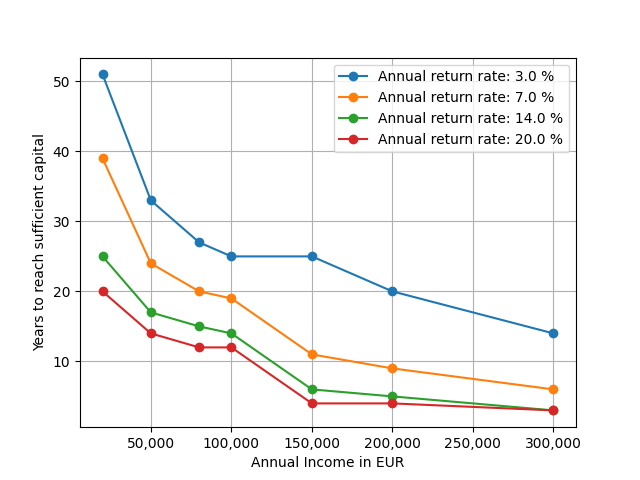
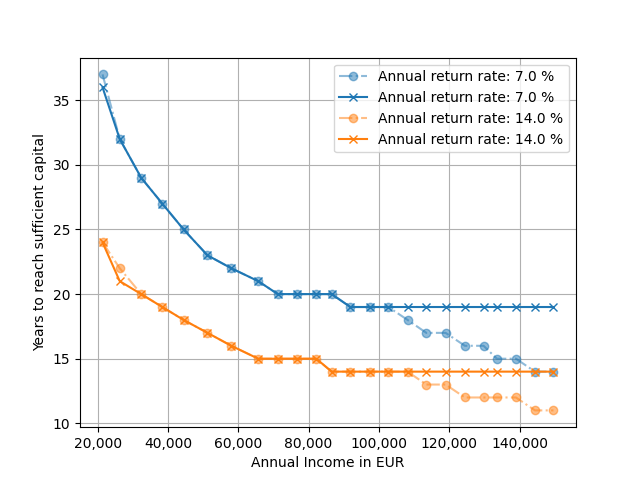
Added plotting of income distribution. Fixed a smaller bug in calculate_income_support (corrected percentage calculation for support_per_income_bracked)

diff --git a/tax_autonomy_estimations.py b/tax_autonomy_estimations.py
@@ -35,10 +35,49 @@ class IncomeDistribution:
                     [6754, 0.007699141],
                     [7000, 0.0165038],]
     
-    def check_sum_probability():
-        total_probability = sum([x[1] for x in IncomeDistribution.income_distribution_germany_monthly_net_2025])
+    income_distribution_germany_annual_pretax_2025 = [[3048.0, 0.018142335], 
+                                                      [6084.0, 0.0368473], 
+                                                      [8940.0, 0.05746718], 
+                                                      [11988.0, 0.074790248],
+                                                      [21408.6796875, 0.086605468],
+                                                      [26297.890020525545, 0.094857368],
+                                                      [32402.37806481606, 0.09815418],
+                                                      [38404.916015625, 0.095133748],
+                                                      [44456.68841170119, 0.083585036],
+                                                      [51254.11145067215, 0.06955878],
+                                                      [58019.106321155494, 0.055818774],
+                                                      [65692.49251496955, 0.043717303],
+                                                      [71238.10499621322, 0.033264238],
+                                                      [76630.28155900352, 0.025298588],
+                                                      [82197.8134571691, 0.019800612],
+                                                      [86562.43176269531, 0.015951041],
+                                                      [91882.03161621094, 0.012920738],
+                                                      [97374.62658691406, 0.009623927],
+                                                      [102694.22644042969, 0.007146382],
+                                                      [108165.19702148438, 0.005497977],
+                                                      [113484.796875, 0.004402329],
+                                                      [118977.39184570312, 0.003849571],
+                                                      [124448.36242675781, 0.00412595],
+                                                      [129767.96228027344, 0.005497977],
+                                                      [133547.9080920462, 0.006327115],
+                                                      [138977.90147373016, 0.007422762],
+                                                      [144386.51692871458, 0.007699141],
+                                                      [149645.4868968022, 0.0165038]]
+    
+    def check_sum_probability(distribution: list) -> None:
+        total_probability = sum([x[1] for x in distribution])
         print(total_probability)
         assert round(total_probability,1)==1.0, "Income distribution does not sum up to 1, it is {:.3f}".format(total_probability)
+
+    def cutoff_income_distribution(income_distribution: list, cutoff: float) -> list:
+        """
+        Cut the income distribution at a certain cutoff value.
+
+        params:
+            income_distribution: list, list of income values and their probabilities
+            cutoff: float, cutoff value in EUR
+        """
+        return [[income, percentage] for income, percentage in income_distribution if income >= cutoff]
 
     def transform_distrubtion_to_annual_income():
         income_distribution_germany_annual_pretax_2025 = []
@@ -75,6 +114,28 @@ class IncomeDistribution:
             income_distribution_germany_annual_pretax_2025.append([income_annual_pretax_estimation,percentage])
 
         return income_distribution_germany_annual_pretax_2025
+    
+    def plot_income_distribution_as_bar_chart(income_distribution: list, figure_name = "") -> None:
+        """
+        Plot the income distribution as a bar chart.
+
+        params:
+            income_distribution: list, list of income values and their probabilities
+        """
+        income_values = [x[0] for x in income_distribution]
+        income_probabilities = [x[1]*100 for x in income_distribution]
+
+        bin_width = (income_values[1] - income_values[0])*0.8
+
+        plt.bar(income_values, income_probabilities, width=bin_width, edgecolor="black", alpha = 0.7)
+        plt.xlabel("Annual Pretax Income in EUR")
+        plt.ylabel("Part of Population [%]")
+        plt.grid()
+        if figure_name != "":
+            plt.savefig(figure_name)
+        plt.show()
+    
+
 
 class TaxCalculator:
     # **Tax Brackets for 2025**
@@ -290,14 +351,22 @@ def create_plot_for_income_and_interest_rate(annual_income_cap: float = 500e3, s
 
     interest_rate_low_risk = 0.05
     
-    interest_rates = np.array([0.03, 0.07, 0.14, 0.2])
+    #interest_rates = np.array([0.03, 0.07, 0.14, 0.2])
+    interest_rates = np.array([0.07, 0.14])
     #annual_incomes = np.array([20e3,50e3,80e3,100e3,150e3,200e3,300e3])
     
     #income_distribution = [[10e3,0.1], [20e3,0.1], [30e3,0.1], [40e3,0.1], [50e3,0.1], [60e3,0.1], [70e3,0.1], [80e3,0.1], [90e3,0.1], [100e3,0.1]]
-    income_distribution = [[20e3,0.2], [50e3,0.3], [80e3,0.2], [100e3,0.1], [150e3,0.1], [200e3,0.05], [300e3,0.05]]
+    #income_distribution = [[20e3,0.2], [50e3,0.3], [80e3,0.2], [100e3,0.1], [150e3,0.1], [200e3,0.05], [300e3,0.05]]
 
-    total_probability = sum([x[1] for x in income_distribution])
-    assert round(total_probability,1)==1.0, "Income distribution does not sum up to 1, it is {:.3f}".format(total_probability)
+    #IncomeDistribution.plot_income_distribution_as_bar_chart(income_distribution, "toy_income_distribution.png")
+
+
+ 
+    #total_probability = sum([x[1] for x in income_distribution])
+    #assert round(total_probability,1)==1.0, "Income distribution does not sum up to 1, it is {:.3f}".format(total_probability)
+
+    income_distribution = IncomeDistribution.cutoff_income_distribution(IncomeDistribution.income_distribution_germany_annual_pretax_2025, 20e3)
+
 
     annual_incomes = [x[0] for x in income_distribution]
     
@@ -314,11 +383,12 @@ def create_plot_for_income_and_interest_rate(annual_income_cap: float = 500e3, s
 
     #print("I hang here")
     
+
     
     for interest_rate in interest_rates:
-        print("")
-        print("interest rate: " + str(interest_rate))
-        print("")
+        #print("")
+        #print("interest rate: " + str(interest_rate))
+        #print("")
         for annual_income, income_support in zip(annual_incomes, income_support_per_income_bracket):
 
             years, _ = calculate_number_of_years(interest_rate, interest_rate_low_risk, annual_income, annual_income_cap, income_support)
@@ -327,10 +397,12 @@ def create_plot_for_income_and_interest_rate(annual_income_cap: float = 500e3, s
             years_no_support, _ = calculate_number_of_years(interest_rate, interest_rate_low_risk, annual_income, annual_income_cap, 0)
             years_to_reach_capital_no_support.append(years_no_support)
 
-            print("annual income : " + str(annual_income) + " year reduction with support: " + str(years_no_support-years))
+            #print("annual income : " + str(annual_income) + " year reduction with support: " + str(years_no_support-years))
 
-        plt.plot(annual_incomes, np.array(years_to_reach_capital_no_support).copy(), marker="o")
-        plt.plot(annual_incomes, np.array(years_to_reach_capital).copy(), marker="x")
+        #line_temp, = plt.plot(annual_incomes, np.array(years_to_reach_capital_no_support).copy(), marker="o")
+
+        line_temp, = plt.plot(annual_incomes, np.array(years_to_reach_capital_no_support).copy(), marker="o", alpha=0.5, linestyle="-.")
+        plt.plot(annual_incomes, np.array(years_to_reach_capital).copy(), marker="x", color = line_temp.get_color())
 
         
         years_to_reach_capital = []
@@ -377,39 +449,55 @@ def calculate_income_support(income_distribution: list, annual_income_cap: float
 
     # Support according to income cap
 
+
+    total_percentage_below_income_cap = 0
+    
     for i in range(len(income_distribution)):
         annual_income, percentage = income_distribution[i]
-        if annual_income <= annual_income_cap:
+  
+
+        if annual_income < annual_income_cap:
             income_tax = TaxCalculator.calculate_german_income_tax(annual_income)
             income_tax_at_cap = TaxCalculator.calculate_german_income_tax(annual_income_cap)
 
             income_tax_deviation_from_cap = income_tax_at_cap - income_tax
             #income_tax_deviation_from_cap = annual_income * TaxCalculator.sg4 - income_tax
             accumulated_income_tax_under_cap += income_tax_deviation_from_cap * percentage
+            total_percentage_below_income_cap += percentage
 
-        if annual_income > annual_income_cap:
+        if annual_income >= annual_income_cap:
 
             
             income_tax = TaxCalculator.calculate_german_income_tax(annual_income)
             income_tax_at_cap = TaxCalculator.calculate_german_income_tax(annual_income_cap)
 
-            print(f"annual income: {annual_income}")
-            print(f"income tax: {income_tax}")
-            print("income tax at cap:" + str(income_tax_at_cap))
+            #print(f"annual income: {annual_income}")
+            #print(f"income tax: {income_tax}")
+            #print("income tax at cap:" + str(income_tax_at_cap))
 
             income_tax_deviation_from_cap = income_tax_at_cap - income_tax
             accumulated_income_tax_over_cap += income_tax_deviation_from_cap * percentage
 
             support_per_income_bracket[i] = income_tax_deviation_from_cap
 
-            print("support per income bracked: " +str(support_per_income_bracket[i]))
+            #print("support per income bracked: " +str(support_per_income_bracket[i]))
 
     #sys.exit()
 
     accumulated_support_difference = accumulated_income_tax_under_cap - np.abs(accumulated_income_tax_over_cap)
     
+
+    print("total percentage below income cap: " + str(total_percentage_below_income_cap))
+
+    #sys.exit()
+
     for i in range(len(income_distribution)):
         annual_income, percentage = income_distribution[i]
+
+        print(f"percentage: {percentage}")
+        percentage = percentage / total_percentage_below_income_cap
+
+        print(f"percentage post normalization: {percentage}")
         if annual_income <= annual_income_cap:
             support_per_income_bracket[i] = np.abs(accumulated_income_tax_over_cap) * percentage
 
@@ -427,10 +515,15 @@ def calculate_income_support(income_distribution: list, annual_income_cap: float
 
 
 if __name__ == "__main__":
-    print(IncomeDistribution.income_distribution_germany_monthly_net_2025)
-    IncomeDistribution.check_sum_probability()
+
+    #IncomeDistribution.plot_income_distribution_as_bar_chart(IncomeDistribution.income_distribution_germany_annual_pretax_2025, "german_annual_income_distribution_2025.png")
+
+    #sys.exit()
+
+    #print(IncomeDistribution.income_distribution_germany_monthly_net_2025)
+    #IncomeDistribution.check_sum_probability(IncomeDistribution.income_distribution_germany_annual_pretax_2025)
     
-    print(IncomeDistribution.transform_distrubtion_to_annual_income())
+    #print(IncomeDistribution.transform_distrubtion_to_annual_income())
     #income = 30e3
     #income_net = income - TaxCalculator.calculate_german_income_tax(income) - TaxCalculator.calculate_german_social_security_tax(income)
     #print(income_net/12*0.15)
@@ -438,9 +531,9 @@ if __name__ == "__main__":
 
     #sys.exit()
     
-    #annual_income_cap = 150e3
+    annual_income_cap = 100e3
 
-    #create_plot_for_income_and_interest_rate(annual_income_cap=annual_income_cap, save_plot_to_disk=False)
+    create_plot_for_income_and_interest_rate(annual_income_cap=annual_income_cap, save_plot_to_disk=True)
     #sys.exit()
     
     #income = 100e3
